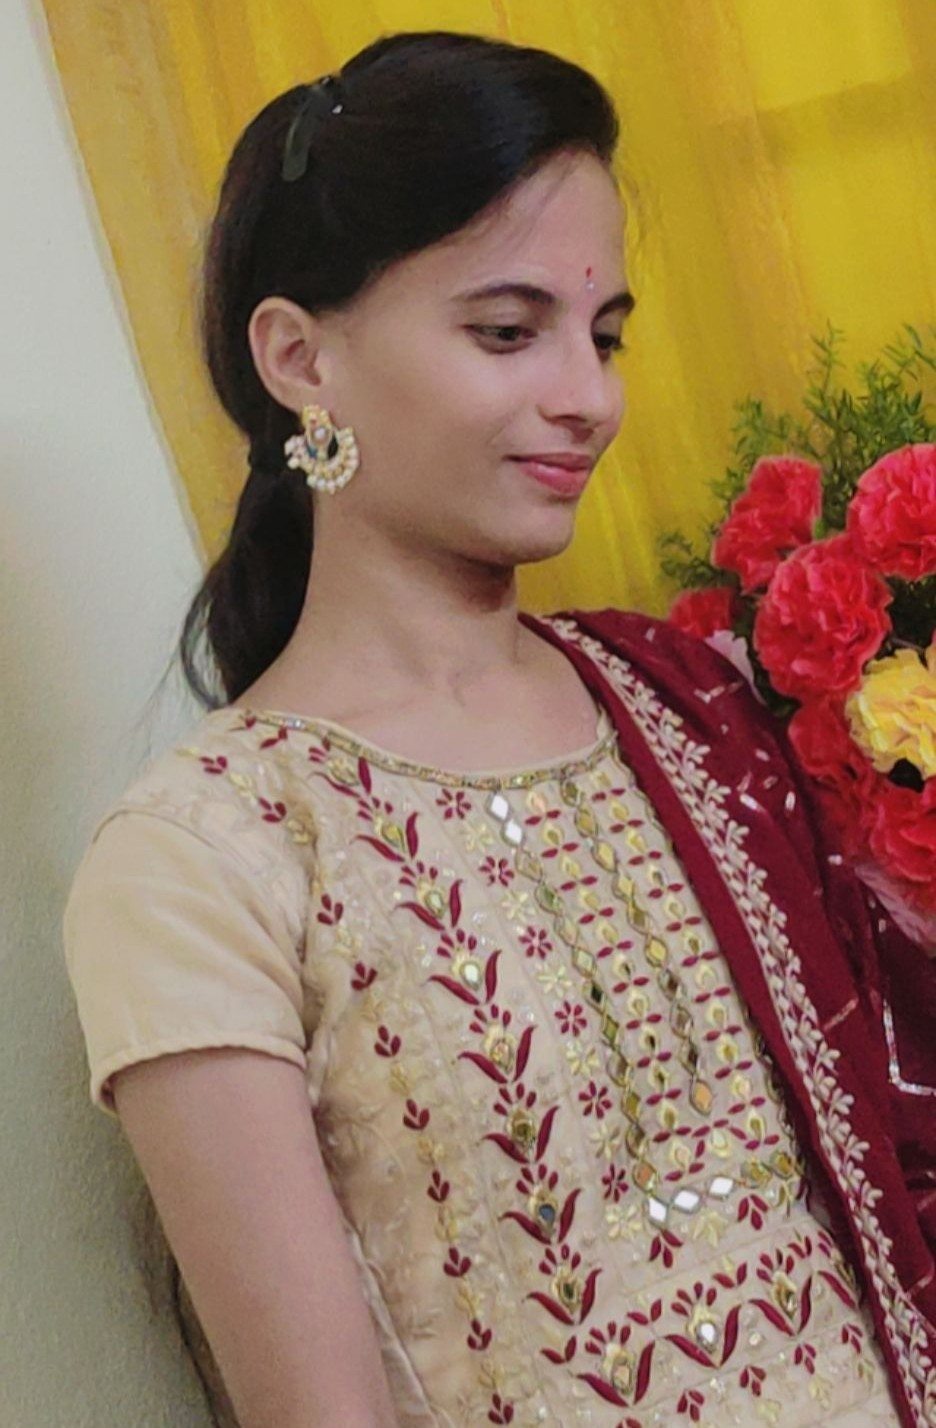
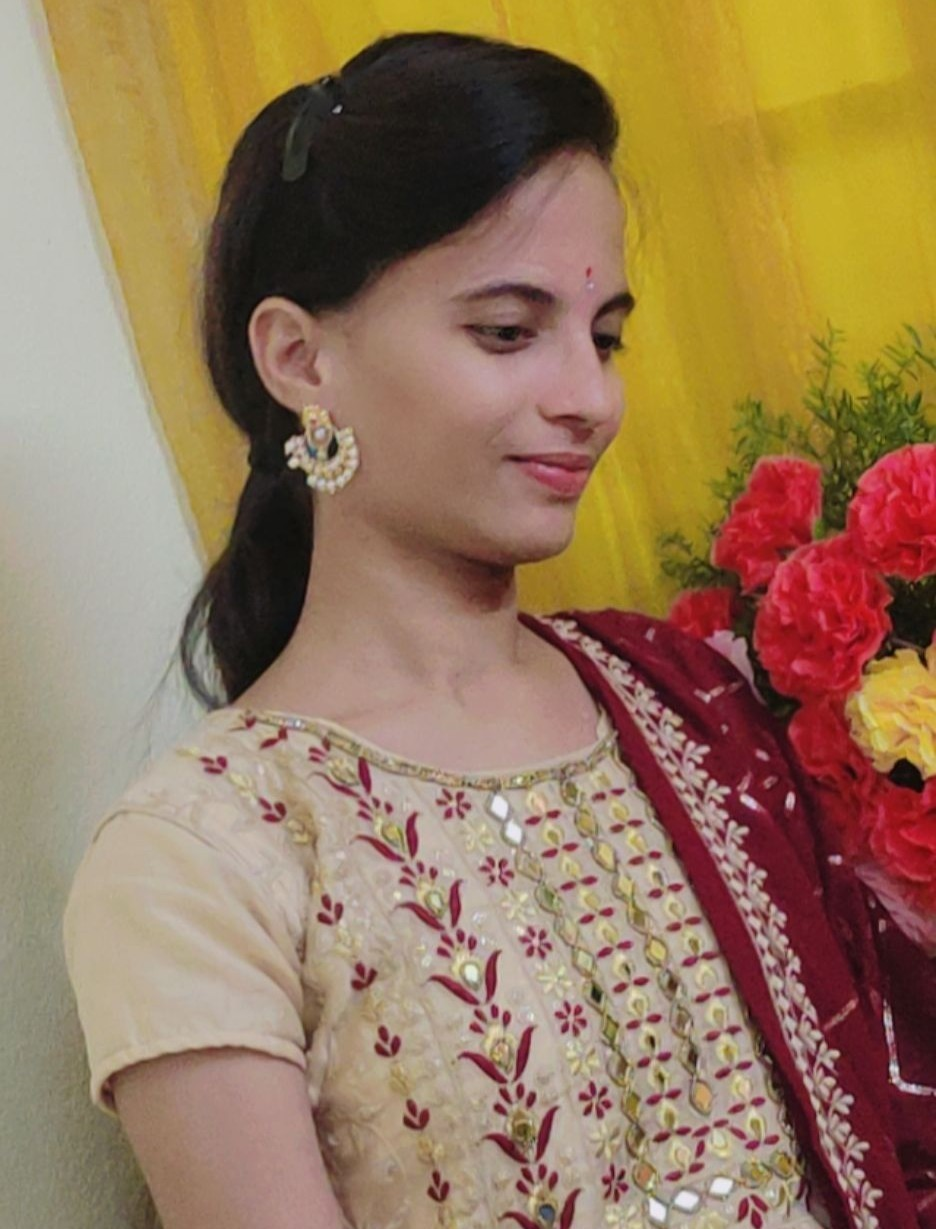
Updated birthday surprise website

diff --git a/src/pages/IntroPage3/IntroPage3.css b/src/pages/IntroPage3/IntroPage3.css
@@ -2106,3 +2106,82 @@
     transition-duration: 0.01ms !important;
   }
 }
+
+/* =========================================
+   MOBILE SCROLL FIX - ADD AT THE VERY END
+========================================= */
+
+@media screen and (max-width: 700px) {
+  html,
+  body {
+    width: 100% !important;
+    height: auto !important;
+    min-height: 100% !important;
+    overflow-x: hidden !important;
+    overflow-y: auto !important;
+    position: static !important;
+    touch-action: pan-y !important;
+    -webkit-overflow-scrolling: touch !important;
+  }
+
+  #root {
+    width: 100% !important;
+    height: auto !important;
+    min-height: 100vh !important;
+    min-height: 100dvh !important;
+    overflow: visible !important;
+    position: relative !important;
+  }
+
+  .app-step-wrapper {
+    width: 100% !important;
+    height: auto !important;
+    min-height: 100vh !important;
+    min-height: 100dvh !important;
+    max-height: none !important;
+    position: relative !important;
+    inset: auto !important;
+    overflow: visible !important;
+  }
+
+  .intro3-page {
+    width: 100% !important;
+    height: auto !important;
+    min-height: 100vh !important;
+    min-height: 100dvh !important;
+    max-height: none !important;
+    position: relative !important;
+    overflow: visible !important;
+    touch-action: pan-y !important;
+  }
+
+  .i3-page-content {
+    width: 100% !important;
+    height: auto !important;
+    min-height: 100vh !important;
+    min-height: 100dvh !important;
+    max-height: none !important;
+    overflow: visible !important;
+    padding-bottom: 45px !important;
+  }
+
+  .i3-layout {
+    height: auto !important;
+    min-height: 0 !important;
+    max-height: none !important;
+    overflow: visible !important;
+  }
+
+  .i3-panel,
+  .i3-details-panel,
+  .i3-details-scroll {
+    height: auto !important;
+    min-height: 0 !important;
+    max-height: none !important;
+    overflow: visible !important;
+  }
+
+  .i3-footer {
+    margin-bottom: 15px !important;
+  }
+}

diff --git a/src/index.css b/src/index.css
@@ -1,18 +1,9 @@
+
 * {
   box-sizing: border-box;
 }
 
-html {
-  width: 100%;
-  min-height: 100%;
-  height: auto;
-  margin: 0;
-  padding: 0;
-  overflow-x: hidden;
-  overflow-y: auto;
-  scroll-behavior: smooth;
-}
-
+html,
 body {
   width: 100%;
   min-height: 100%;
@@ -22,6 +13,11 @@ body {
   overflow-x: hidden;
   overflow-y: auto;
   -webkit-overflow-scrolling: touch;
+  overscroll-behavior-y: auto;
+}
+
+body {
+  position: relative;
 }
 
 #root {
@@ -29,6 +25,7 @@ body {
   min-height: 100vh;
   height: auto;
   overflow: visible;
+  position: relative;
 }
 
 .app-step-wrapper {
@@ -36,32 +33,46 @@ body {
   min-height: 100vh;
   height: auto;
   overflow: visible;
+  position: relative;
 }
 
-/* MOBILE PAGE SCROLL */
-
+/* INTRO PAGE 3 - MOBILE SCROLL FIX */
 @media screen and (max-width: 700px) {
   html,
   body {
-    width: 100% !important;
     height: auto !important;
     min-height: 100% !important;
     overflow-x: hidden !important;
-    overflow-y: auto !important;
-    -webkit-overflow-scrolling: touch;
+    overflow-y: scroll !important;
+    position: relative !important;
+    touch-action: pan-y !important;
   }
 
-  #root {
-    width: 100% !important;
-    height: auto !important;
-    min-height: 100vh !important;
-    overflow: visible !important;
-  }
-
+  #root,
   .app-step-wrapper {
     width: 100% !important;
     height: auto !important;
     min-height: 100vh !important;
+    max-height: none !important;
+    overflow: visible !important;
+    position: relative !important;
+    inset: auto !important;
+  }
+
+  .intro3-page {
+    width: 100% !important;
+    height: auto !important;
+    min-height: 100vh !important;
+    max-height: none !important;
+    overflow: visible !important;
+    position: relative !important;
+  }
+
+  .i3-page-content,
+  .i3-layout {
+    height: auto !important;
+    min-height: 0 !important;
+    max-height: none !important;
     overflow: visible !important;
   }
 }

diff --git a/src/pages/IntroPage6/IntroPage6.jsx b/src/pages/IntroPage6/IntroPage6.jsx
@@ -78,7 +78,7 @@ function IntroPage6({ onNext, onContinue }) {
           <div className="intro6-photo-frame">
             <div className="intro6-frame-inner">
               <img
-                src={`${import.meta.env.BASE_URL}images/akka.jpg`}
+                src={`${import.meta.env.BASE_URL}images/akka.jpeg`}
                 alt="Akka"
                 className="intro6-akka-photo"
               />

diff --git a/src/pages/LittleThings/LittleThings.css b/src/pages/LittleThings/LittleThings.css
@@ -971,7 +971,7 @@
     height: 205px;
     transform: scale(0.73);
     transform-origin: center center;
-    margin-top: -15px;
+    margin-top: -1px;
     margin-bottom: -20px;
   }
 
